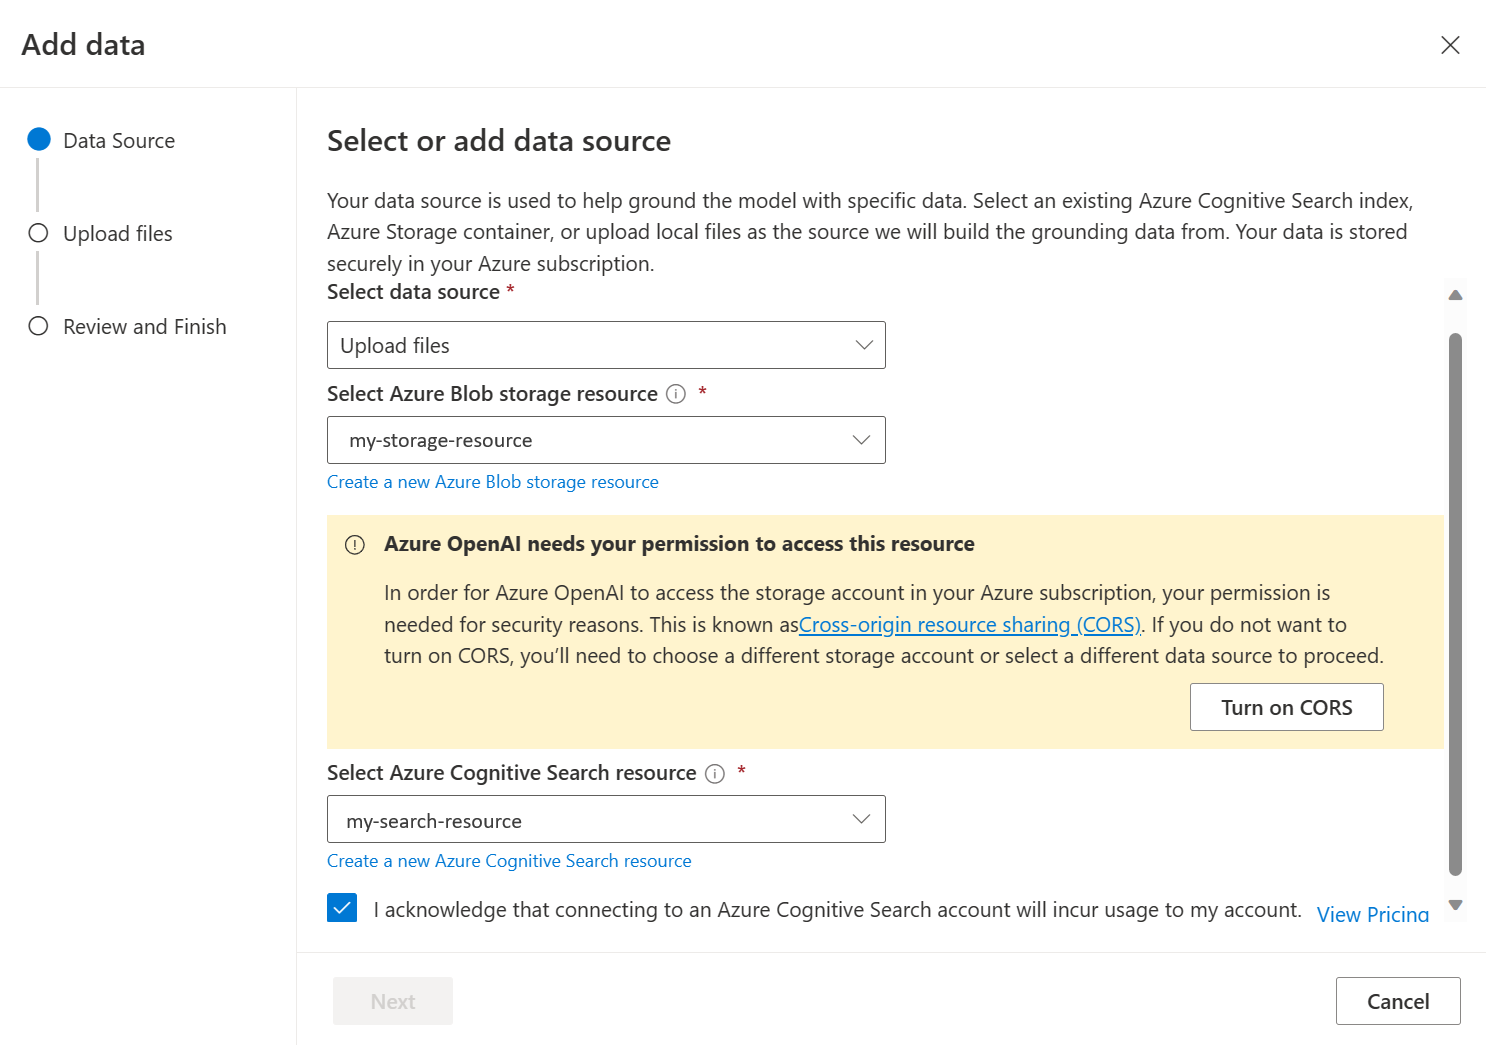
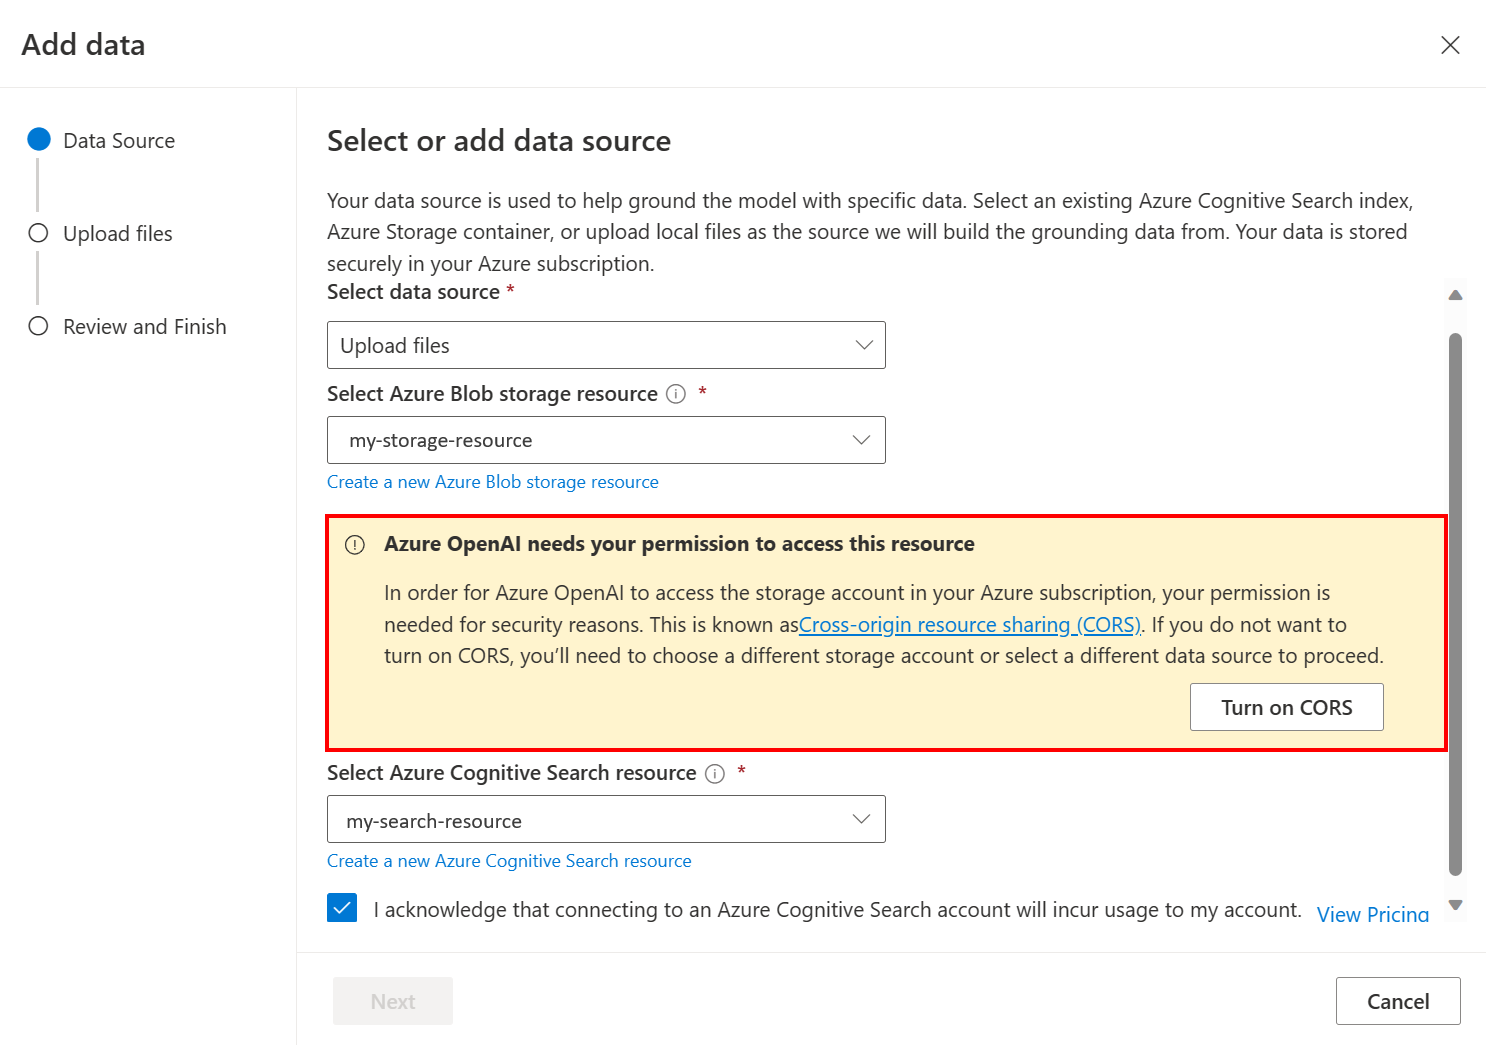
Update graphic and fix typo

Changed region(s): [[0.2167, 0.49, 0.9906, 0.5206], [0.2167, 0.7043, 0.9596, 0.7349]]

diff --git a/docs/dev/tutorials/openai-acs-msgraph/includes/05-OpenAI-BYOD.md b/docs/dev/tutorials/openai-acs-msgraph/includes/05-OpenAI-BYOD.md
@@ -32,7 +32,7 @@ Let's get started by adding a custom data source to Azure AI Studio.
 
 1. Once the blob storage resource is created, go back to the Azure AI Studio dialog and select your newly created blob storage resource from the **Select Azure Blob storage resource** dropdown. If you don't see it listed, refresh the page to reload the dialog in Azure AI Studio.
 
-1. Cross-origin resource sharing (CORS) needs to be turned out in order for your storage account to be accessed. Select **Turn on CORS** in the Azure AI Studio dialog.
+1. Cross-origin resource sharing (CORS) needs to be turned on in order for your storage account to be accessed. Select **Turn on CORS** in the Azure AI Studio dialog.
 
     :::image type="content" source="../media/aoai-studio-turn-on-cors.png" alt-text="Azure OpenAI Studio Bring Your Own Data Turn on CORS":::
 
